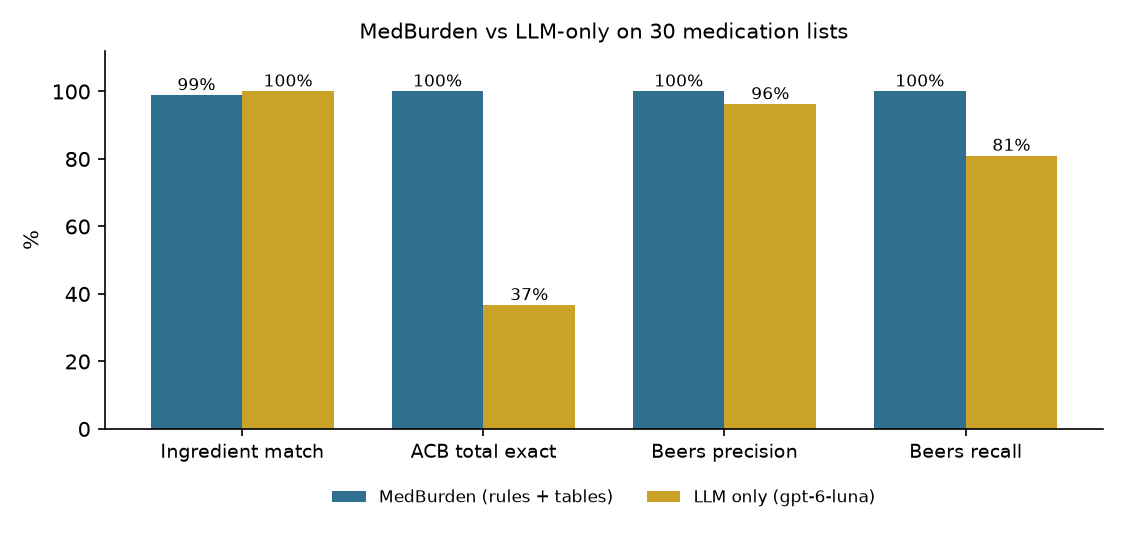
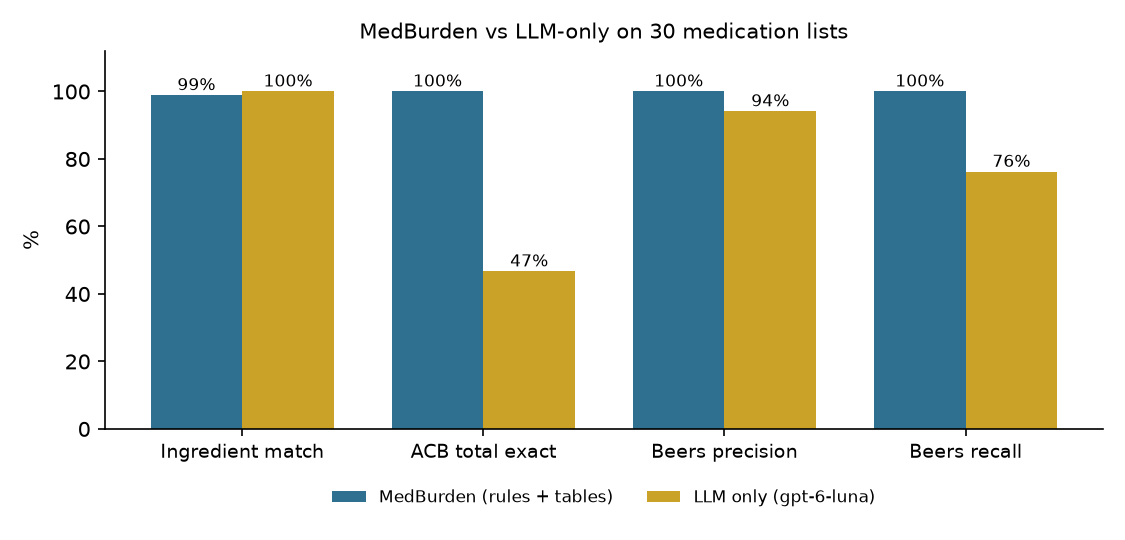
Re-run evaluations with live key, update README numbers, friendlier photo errors
- Held-out and main evaluations re-run on Nov 15 with gpt-6-luna; MedBurden numbers unchanged, LLM-only column updated
- README reports LLM-only run-to-run range and that RxNav answers came from the saved cache
- Show a clear message when no medicines can be read from a photo; hide raw provider errors

Changed region(s): [[0.4044, 0.4741, 0.5289, 0.563], [0.84, 0.2667, 0.9644, 0.3259], [0.6222, 0.1481, 0.7467, 0.2074]]

diff --git a/app/app.py b/app/app.py
@@ -223,6 +223,9 @@ with tab_check:
     if st.button("Read the list", type="primary", disabled=not (text or img)):
         with st.spinner("Reading..."):
             got, method, warns = extract(text=text, image_bytes=img)
+        if not got:
+            warns = list(warns) + ["No medicines could be read from this input. For a photo, try a sharper, well-lit, "
+                                   "straight-on picture, or type the medicines in the box instead."]
         st.session_state["items_df"] = pd.DataFrame([i.to_dict() for i in got] or
                                                     [{"name": "", "strength": "", "dose": "", "frequency": "", "confidence": 0.0}])
         st.session_state["extract_info"] = (method, warns)
@@ -290,6 +293,8 @@ with tab_demo:
             st.caption(f"Read with `{method}` · assumed: age 80, dementia")
         for w in warns:
             st.warning(w)
+        if not items:
+            st.warning("No medicines could be read from this photo. Try a sharper, well-lit picture or type the list instead.")
         st.markdown(f"### {title}")
         if items:
             norms, rep = run_pipeline(items, pat)

diff --git a/src/extract.py b/src/extract.py
@@ -337,7 +337,7 @@ def extract(text: str | None = None, image_bytes: bytes | None = None, use_llm: 
                 items = llm_extract(text=text, image_bytes=image_bytes)
                 return items, f"llm:{llm_provider()}", warnings
             except LLMError as e:
-                warnings.append(f"AI reader error: {e}. Used the basic reader instead.")
+                warnings.append("The AI reader could not process this input (for example an unsupported or damaged image). Used the basic reader instead.")
             except Exception as e:
                 warnings.append(f"The AI reader failed ({type(e).__name__}). Used the basic reader instead.")
     if image_bytes is not None:

diff --git a/README.md b/README.md
@@ -12,7 +12,7 @@ About 7.4 million Americans age 65 and older are living with Alzheimer's disease
 
 ## What makes it different from asking ChatGPT
 
-Every flag comes from a fixed lookup in published tables (the ACB scale and the AGS Beers Criteria), not from a language model's memory. The AI is only used to read the list and to reword flags it is handed. On our 31 held-out lists, a plain LLM got the total ACB score exactly right 39% of the time, while MedBurden got it right 97% of the time, and MedBurden raised no false Beers flags (LLM only: 7 false flags). This matters for dementia caregivers because a total anticholinergic score is the number that tells them whether several mild drugs add up to a problem. The tradeoff is real: the LLM recognised more rare brand names (see Results).
+Every flag comes from a fixed lookup in published tables (the ACB scale and the AGS Beers Criteria), not from a language model's memory. The AI is only used to read the list and to reword flags it is handed. On our 31 held-out lists, a plain LLM got the total ACB score exactly right between 29% and 39% of the time across runs, while MedBurden got it right 97% of the time every run, and MedBurden raised no false Beers flags (LLM only: 7 to 8 false flags). This matters for dementia caregivers because a total anticholinergic score is the number that tells them whether several mild drugs add up to a problem. The tradeoff is real: the LLM recognised more rare brand names (see Results).
 
 ## Demo
 
@@ -52,12 +52,12 @@ Two evaluations, both on made-up lists labeled by hand by the team (the same peo
 | | MedBurden | LLM only (gpt-6-luna) |
 |---|---|---|
 | Ingredient match | 87% (79/91) | 97% (88/91) |
-| ACB total exactly right | 97% (30/31) | 39% (12/31) |
-| Beers precision (flags that are real) | 100% (82/82) | 91% (70/77) |
-| Beers recall (real flags found) | 86% (82/95) | 74% (70/95) |
-| False Beers flags | 0 | 7 |
+| ACB total exactly right | 97% (30/31) | 29% (9/31) |
+| Beers precision (flags that are real) | 100% (82/82) | 90% (76/84) |
+| Beers recall (real flags found) | 86% (82/95) | 80% (76/95) |
+| False Beers flags | 0 | 8 |
 
-Source: [`results/holdout/metrics.json`](results/holdout/metrics.json), produced by `python scripts/evaluate.py --eval-dir tests/eval_set_holdout --out-dir results/holdout` with an OpenAI key. The LLM-only column varies a few points between runs (ACB 35 to 39%, Beers recall 74 to 84% over three runs) because the model is not deterministic. MedBurden's rule-based part does not vary. Re-run without any key (built-in parser instead of AI text reading), MedBurden gets 86% ingredient match (78/91) and the same ACB 97% and Beers 100% / 86%.
+Source: [`results/holdout/metrics.json`](results/holdout/metrics.json), produced by `python scripts/evaluate.py --eval-dir tests/eval_set_holdout --out-dir results/holdout` with an OpenAI key. This is the latest run (Nov 15). The LLM-only column changes between runs because the model is not deterministic: over four runs, ACB exact ranged 29 to 39%, Beers precision 90 to 91% and Beers recall 74 to 84%. MedBurden's rule-based part does not vary. Re-run without any key (built-in parser instead of AI text reading), MedBurden gets 86% ingredient match (78/91) and the same ACB 97% and Beers 100% / 86%.
 
 ### Main set: 30 lists (6 as photos), partly in-sample
 
@@ -69,7 +69,7 @@ The local brand map was built to cover these drugs, so treat this as a smoke tes
 | System | Drug extraction (precision / recall) | Ingredient match (exactly right) | ACB total exact | Beers precision | Beers recall |
 |---|---|---|---|---|---|
 | MedBurden (rules + tables) | 100% / 100% | 99% (90/91 real drugs matched with exactly the right ingredients) | 100% | 100% | 100% |
-| LLM only (gpt-6-luna, no tables) | n/a | 100% | 37% | 96% | 81% |
+| LLM only (gpt-6-luna, no tables) | n/a | 100% | 47% | 94% | 76% |
 
 - Fictional drug names correctly left unmatched: **2/2** (wrongly matched: 0).
 - Beers counts (MedBurden): {'tp': 63, 'fp': 0, 'fn': 0}.
@@ -79,6 +79,7 @@ The local brand map was built to cover these drugs, so treat this as a smoke tes
 Without an AI key and without Tesseract installed, the 6 photo lists cannot be read, and the same run drops to ACB 83% and Beers recall 73% (precision stays 100%).
 
 ### Reading these numbers honestly
+- Both runs used the saved RxNav answers in `data/rxnav_cache.json` (0 live requests), so the drug lookup part is repeatable. A live RxNav run could differ slightly.
 - The LLM alone recognises more obscure brand names. MedBurden refuses to guess and sends most of the 12 it misses to "needs review". It is better at the ACB total and never raised a false Beers flag in either set.
 - MedBurden's Beers misses all come from names it declined to guess, not from wrong rules.
 - Two wrong matches were found on the held-out set and fixed afterwards, with regression tests in `tests/test_normalize_strict.py`: the made-up "Nexaprine" matched a real combination drug, and "Librium" was spell-corrected to "lithium". The held-out set was therefore used to fix bugs, so it is no longer fully untouched.

diff --git a/results/report.md b/results/report.md
@@ -2,12 +2,12 @@
 
 30 made-up medication lists (6 as photos). Labels written by hand; see tests/eval_set/cases.json and eval/verify_10.md.
 
-**Run conditions:** extraction = {'llm:openai': 30}; RxNav = NOT reachable (cache + local brand map only); LLM = openai · gpt-6-luna; OCR = Tesseract not installed. Photo reading without an AI key needs the free Tesseract OCR program. Install it with `brew install tesseract` (Mac) or `sudo apt install tesseract-ocr` (Linux). On Streamlit Cloud it is installed from packages.txt. You can also type or paste the list instead..
+**Run conditions:** extraction = {'llm:openai': 30}; RxNav = NOT reachable (cache + local brand map only); LLM = openai · gpt-6-luna; OCR = Tesseract not installed. Photo reading without an AI key needs the free Tesseract OCR program. Install it with `brew install tesseract` (Mac) or `sudo apt install tesseract-ocr` (Linux). On Streamlit Cloud it is installed from packages.txt. You can also type or paste the list instead.
 
 | System | Drug extraction (precision / recall) | Ingredient match (exactly right) | ACB total exact | Beers precision | Beers recall |
 |---|---|---|---|---|---|
 | MedBurden (rules + tables) | 100% / 100% | 99% (90/91 real drugs matched with exactly the right ingredients) | 100% | 100% | 100% |
-| LLM only (gpt-6-luna, no tables) | n/a | 100% | 37% | 96% | 81% |
+| LLM only (gpt-6-luna, no tables) | n/a | 100% | 47% | 94% | 76% |
 
 - Fictional drug names correctly left unmatched: **2/2** (wrongly matched: 0).
 - Beers counts (MedBurden): {'tp': 63, 'fp': 0, 'fn': 0}.

diff --git a/results/holdout/report.md b/results/holdout/report.md
@@ -2,12 +2,12 @@
 
 31 made-up medication lists (0 as photos). Labels written by hand; see tests/eval_set/cases.json and eval/verify_10.md.
 
-**Run conditions:** extraction = {'llm:openai': 31}; RxNav = NOT reachable (cache + local brand map only); LLM = openai · gpt-6-luna; OCR = Tesseract not installed. Photo reading without an AI key needs the free Tesseract OCR program. Install it with `brew install tesseract` (Mac) or `sudo apt install tesseract-ocr` (Linux). On Streamlit Cloud it is installed from packages.txt. You can also type or paste the list instead..
+**Run conditions:** extraction = {'llm:openai': 31}; RxNav = NOT reachable (cache + local brand map only); LLM = openai · gpt-6-luna; OCR = Tesseract not installed. Photo reading without an AI key needs the free Tesseract OCR program. Install it with `brew install tesseract` (Mac) or `sudo apt install tesseract-ocr` (Linux). On Streamlit Cloud it is installed from packages.txt. You can also type or paste the list instead.
 
 | System | Drug extraction (precision / recall) | Ingredient match (exactly right) | ACB total exact | Beers precision | Beers recall |
 |---|---|---|---|---|---|
 | MedBurden (rules + tables) | 99% / 99% | 87% (79/91 real drugs matched with exactly the right ingredients) | 97% | 100% | 86% |
-| LLM only (gpt-6-luna, no tables) | n/a | 97% | 39% | 91% | 74% |
+| LLM only (gpt-6-luna, no tables) | n/a | 97% | 29% | 90% | 80% |
 
 - Fictional drug names correctly left unmatched: **2/2** (wrongly matched: 0).
 - Beers counts (MedBurden): {'tp': 82, 'fp': 0, 'fn': 13}.
